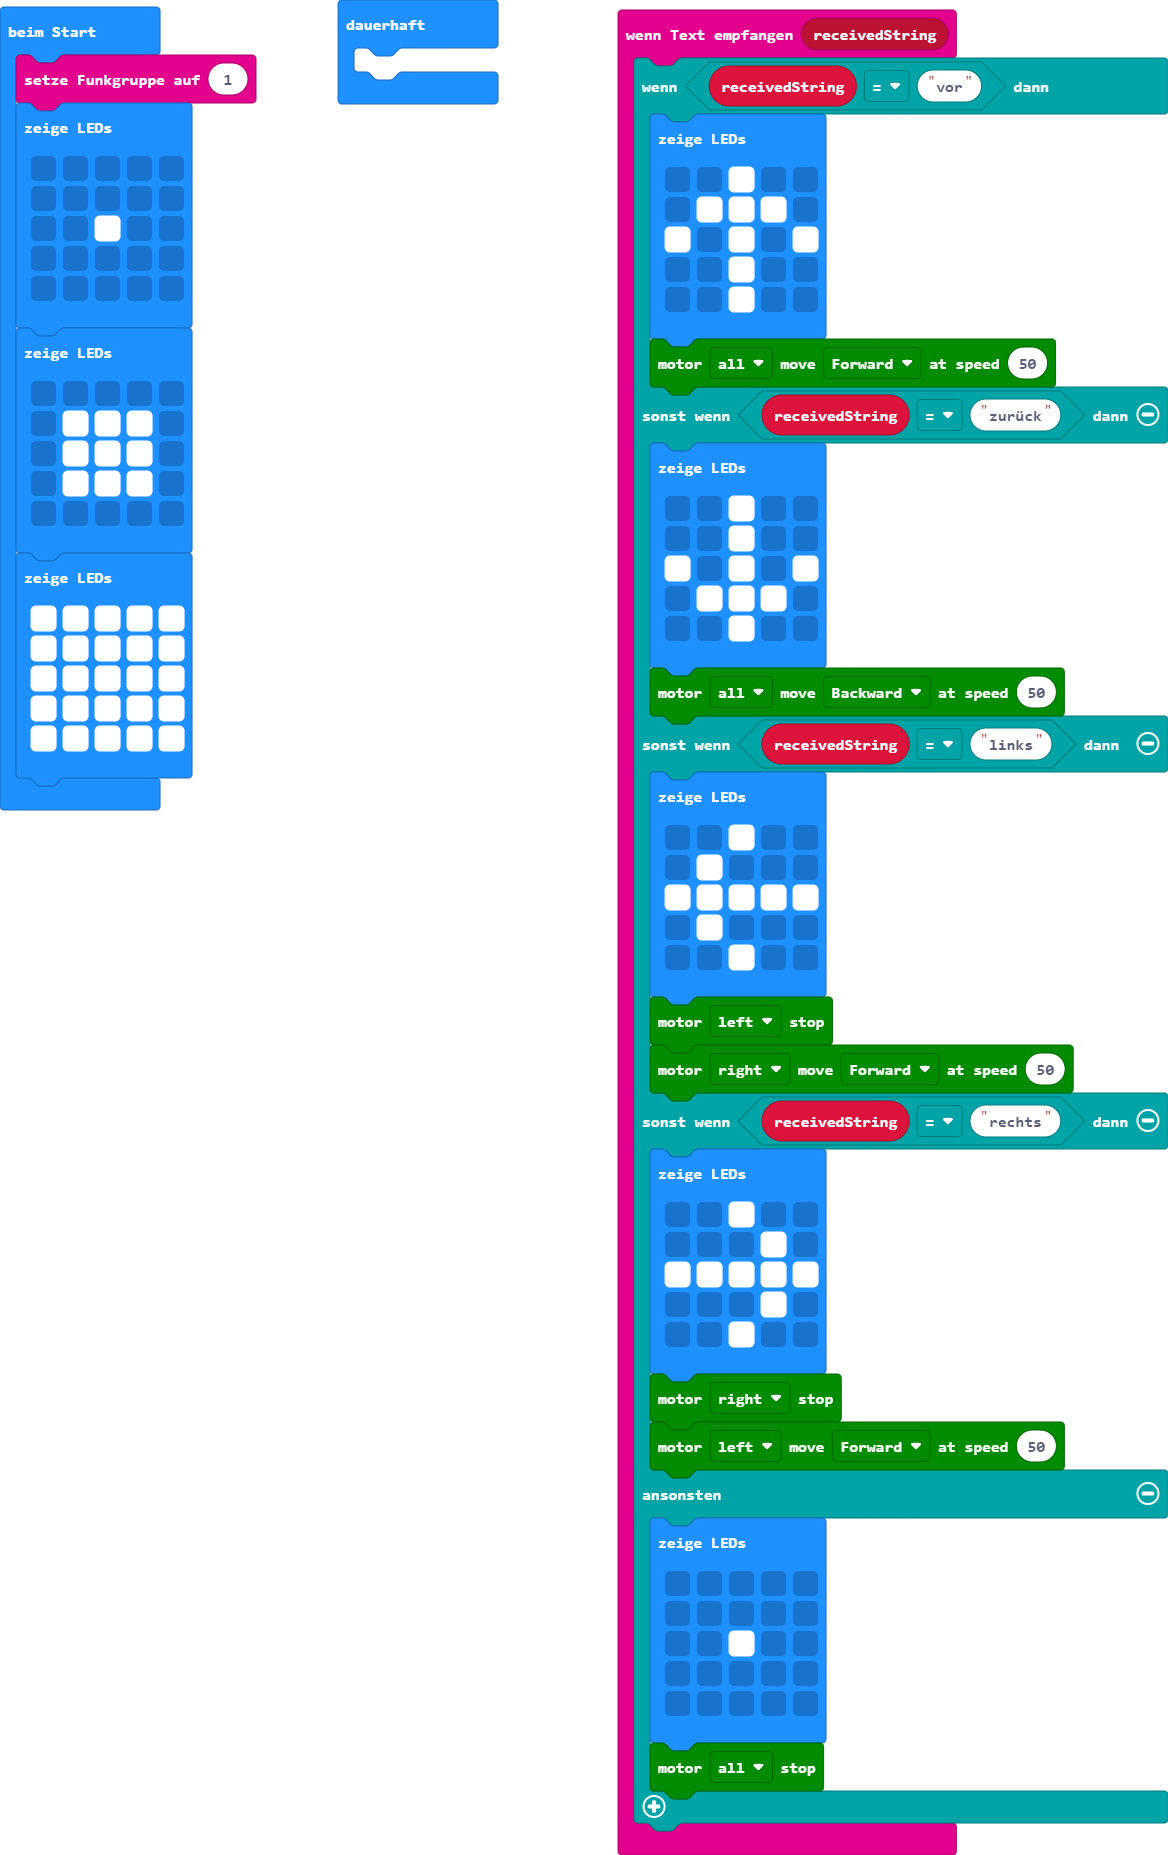
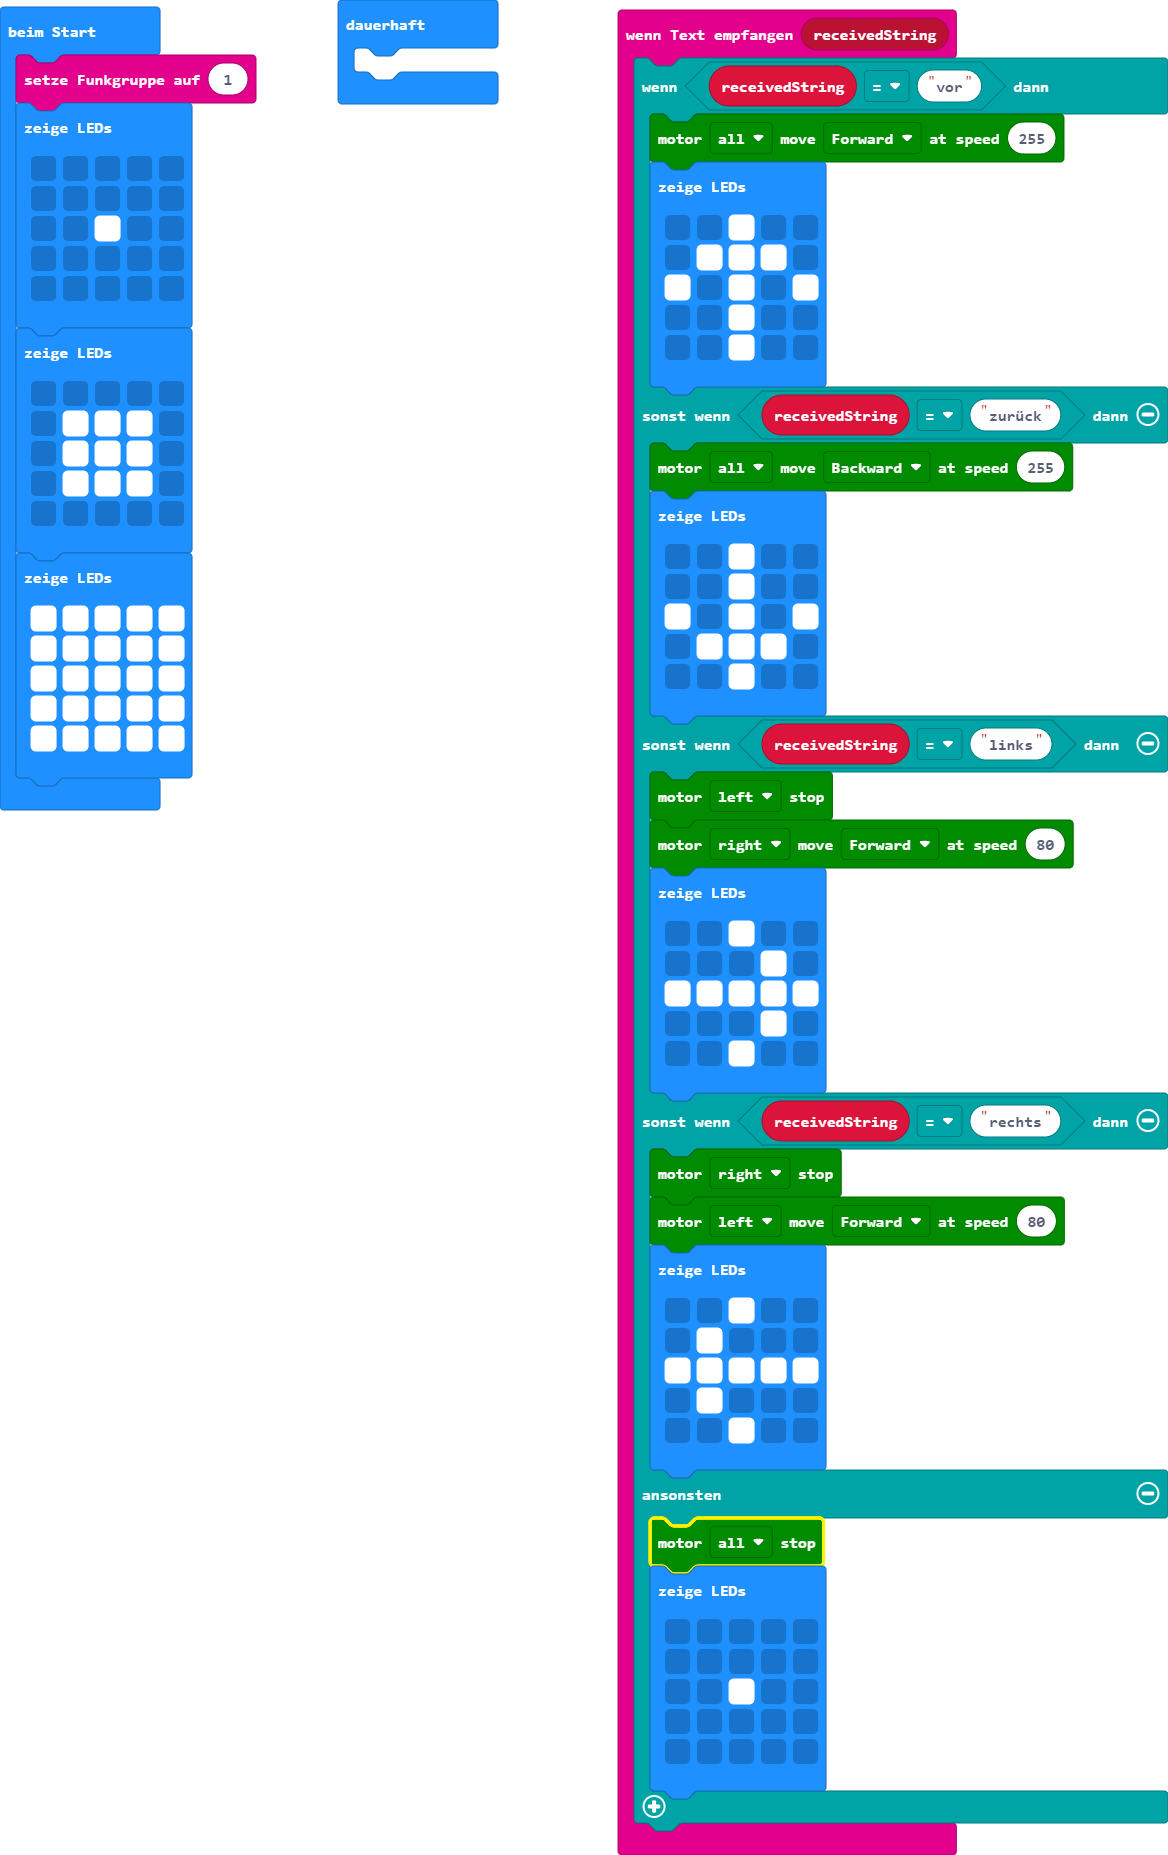
Aktualisiere main.blocks, main.ts

Changed region(s): [[0.5548, 0.0615, 0.9247, 0.9833]]

diff --git a/main.ts b/main.ts
@@ -1,5 +1,6 @@
 radio.onReceivedString(function (receivedString) {
     if (receivedString == "vor") {
+        maqueen.motorRun(maqueen.Motors.All, maqueen.Dir.CW, 255)
         basic.showLeds(`
             . . # . .
             . # # # .
@@ -7,8 +8,8 @@ radio.onReceivedString(function (receivedString) {
             . . # . .
             . . # . .
             `)
-        maqueen.motorRun(maqueen.Motors.All, maqueen.Dir.CW, 50)
     } else if (receivedString == "zurück") {
+        maqueen.motorRun(maqueen.Motors.All, maqueen.Dir.CCW, 255)
         basic.showLeds(`
             . . # . .
             . . # . .
@@ -16,18 +17,9 @@ radio.onReceivedString(function (receivedString) {
             . # # # .
             . . # . .
             `)
-        maqueen.motorRun(maqueen.Motors.All, maqueen.Dir.CCW, 50)
     } else if (receivedString == "links") {
-        basic.showLeds(`
-            . . # . .
-            . # . . .
-            # # # # #
-            . # . . .
-            . . # . .
-            `)
         maqueen.motorStop(maqueen.Motors.M1)
-        maqueen.motorRun(maqueen.Motors.M2, maqueen.Dir.CW, 50)
-    } else if (receivedString == "rechts") {
+        maqueen.motorRun(maqueen.Motors.M2, maqueen.Dir.CW, 80)
         basic.showLeds(`
             . . # . .
             . . . # .
@@ -35,9 +27,18 @@ radio.onReceivedString(function (receivedString) {
             . . . # .
             . . # . .
             `)
+    } else if (receivedString == "rechts") {
         maqueen.motorStop(maqueen.Motors.M2)
-        maqueen.motorRun(maqueen.Motors.M1, maqueen.Dir.CW, 50)
+        maqueen.motorRun(maqueen.Motors.M1, maqueen.Dir.CW, 80)
+        basic.showLeds(`
+            . . # . .
+            . # . . .
+            # # # # #
+            . # . . .
+            . . # . .
+            `)
     } else {
+        maqueen.motorStop(maqueen.Motors.All)
         basic.showLeds(`
             . . . . .
             . . . . .
@@ -45,7 +46,6 @@ radio.onReceivedString(function (receivedString) {
             . . . . .
             . . . . .
             `)
-        maqueen.motorStop(maqueen.Motors.All)
     }
 })
 radio.setGroup(1)
